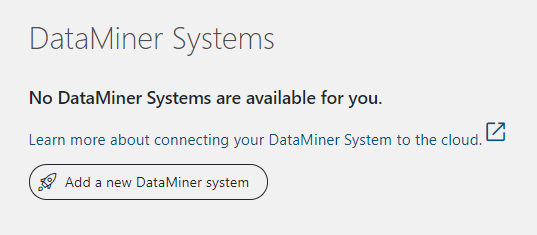
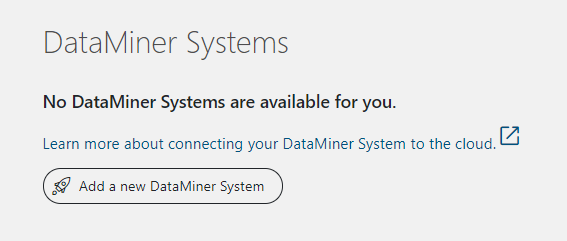
Use correct capitalization of DataMiner System

diff --git a/user-guide/Getting_started/Creating_a_DMS_in_the_cloud.md b/user-guide/Getting_started/Creating_a_DMS_in_the_cloud.md
@@ -12,20 +12,20 @@ With **DataMiner as a Service (DaaS)**, you can create a complete DataMiner Syst
 ## Creating a new DMS on dataminer.services
 
 > [!IMPORTANT]
-> You must be part of an organization to create a new DaaS instance.
+> You must be a member of an [organization](xref:Pricing_Usage_based_service#organization) to create a new DaaS instance and have sufficient DataMiner Credits.
 
 1. Log on to [dataminer.services](https://dataminer.services).
 
    > [!TIP]
    > For more detailed information, see [Logging on to dataminer.services](xref:Logging_on_to_the_DataMiner_Cloud_Platform).
 
-1. Under *DataMiner Systems*, click *Add a new DataMiner system*.
+1. Under *DataMiner Systems*, click *Add a new DataMiner System*.
 
-   ![Add a new DataMiner system button](~/user-guide/images/daas_create_001.png)
+   ![Add a new DataMiner System button](~/user-guide/images/daas_create_001.png)
 
-1. Click *Add a new DataMiner system*.
+1. Click *Add a new DataMiner System*.
 
-   ![Add a new DataMiner system button](~/user-guide/images/daas_create_002.png)
+   ![Add a new DataMiner System button](~/user-guide/images/daas_create_002.png)
 
 1. Select the *Organization* under which you want to register the DataMiner System.
 
@@ -54,7 +54,7 @@ With **DataMiner as a Service (DaaS)**, you can create a complete DataMiner Syst
    > [!TIP]
    > For more detailed information, see [Logging on to dataminer.services](xref:Logging_on_to_the_DataMiner_Cloud_Platform).
 
-1. Under *DataMiner Systems*, click on *Open in desktop app*.
+1. Under *DataMiner Systems*, click *Open in desktop app*.
 
    ![Open in desktop app on dataminer.services](~/user-guide/images/daas_access_001.png "Open dekstop app")
 
